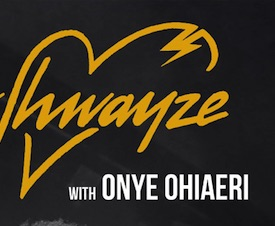
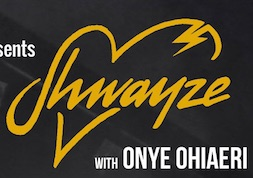
updated welcome text and shwayze image

diff --git a/index.html b/index.html
@@ -94,7 +94,7 @@
 	    			<div class="summer-fastival">
 	    				<div class="col-md-12">
 		    				<h2>Welcome to BF Productions!</h2>
-		    				<p>BF Productions, also known as Brent Freed Productions, brings unforgettable concert experiences to college campuses near UC Berkeley, where our group originated. From rap to rock and roll, and from theaters to churches, BF Productions works to provide live entertainment for students and Bay Area residents to enjoy. Stay tuned for exciting shows to be announced soon!</p>
+		    				<p>BF Productions, also known as Brent Freed Productions is based at UC Berkeley, and brings unforgettable concert experiences to college campuses. From rap to rock and roll, and from theaters to churches, BF Productions works to provide live entertainment for students and Bay Area residents to enjoy. Stay tuned for exciting shows to be announced soon!</p>
 		    			</div>
 		    		</div>
     			</div>  
@@ -167,9 +167,7 @@
                         <div class="col-sm-6 col-md-4">
                             <div class="twitter-updates">
                                  <h3>BF PRODUCTIONS</h3>
-                                <p>We hope you find everything you're looking for and if you have any questions, please feel free to reach out to us via the "Contact Us" page.<br>
-
-                                <p><strong>Wanna get involved?</strong>  We're always looking for amazing talent so if you're interested, please reach out to <a href="contact-us.html">us</a>!</p>
+                                <p>We hope you find everything you're looking for and if you have any questions, please feel free to reach out to us via the "Contact Us" page.</p>
                             </div>                                              
                         </div>
                         <div class="col-sm-6 col-md-3 col-md-offset-1">
@@ -190,10 +188,8 @@
                         </div>
                         <div class="col-sm-12 col-md-4">
                             <div class="news-letter">
-                                <h3><i class="fa fa-envelope"></i> NEWSLETTER</h3>
-                                <p>Sign up for our newsletter to receive updates on events and special offers!</p>
-                                <input type="email" name="email"  value="">
-                                <a href="" class="btn btn-primary pull-right">Submit</a>
+                                <h3></i>Want to get Involved?</h3>
+                                <p>We're always looking for amazing talent so if you're interested, please reach out to <a href="contact-us.html">us</a>!</p>
                             </div>                          
                         </div>
                     </div>

diff --git a/contact-us.html b/contact-us.html
@@ -104,13 +104,13 @@
 	    					<h2 class="heading">Follow us on Social Media</h2>
 							<ul>
 								<li>
-									<a href="#"><i class="fa fa-facebook"></i></a>
+									<a href="https://www.facebook.com/brentfreedproductions?ref=br_tf"><i class="fa fa-facebook"></i></a>
 								</li>
 								<li>
-									<a href="#"><i class="fa fa-twitter"></i></a>
+									<a href="https://twitter.com/brentfreed"><i class="fa fa-twitter"></i></a>
 								</li>
 								<li>
-									<a href="#"><i class="fa fa-instagram"></i></a>
+									<a href="https://instagram.com/bfproductions_/"><i class="fa fa-instagram"></i></a>
 								</li>
 							</ul>
 	    				</div>
@@ -128,9 +128,7 @@
                         <div class="col-sm-6 col-md-4">
                             <div class="twitter-updates">
                                  <h3>BF PRODUCTIONS</h3>
-                                <p>We hope you find everything you're looking for and if you have any questions, please feel free to reach out to us via the "Contact Us" page.<br>
-
-                                <p><strong>Wanna get involved?</strong>  We're always looking for amazing talent so if you're interested, please reach out to <a href="contact-us.html">us</a>!</p>
+                                <p>We hope you find everything you're looking for and if you have any questions, please feel free to reach out to us via the "Contact Us" page.</p>
                             </div>                                              
                         </div>
                         <div class="col-sm-6 col-md-3 col-md-offset-1">
@@ -151,10 +149,8 @@
                         </div>
                         <div class="col-sm-12 col-md-4">
                             <div class="news-letter">
-                                <h3><i class="fa fa-envelope"></i> NEWSLETTER</h3>
-                                <p>Sign up for our newsletter to receive updates on events and special offers!</p>
-                                <input type="email" name="email"  value="">
-                                <a href="" class="btn btn-primary pull-right">Submit</a>
+                                <h3></i>Want to get Involved?</h3>
+                                <p>We're always looking for amazing talent so if you're interested, please reach out to <a href="contact-us.html">us</a>!</p>
                             </div>                          
                         </div>
                     </div>

diff --git a/about-us.html b/about-us.html
@@ -113,9 +113,7 @@
                         <div class="col-sm-6 col-md-4">
                             <div class="twitter-updates">
                                  <h3>BF PRODUCTIONS</h3>
-                                <p>We hope you find everything you're looking for and if you have any questions, please feel free to reach out to us via the "Contact Us" page.<br>
-
-                                <p><strong>Wanna get involved?</strong>  We're always looking for amazing talent so if you're interested, please reach out to <a href="contact-us.html">us</a>!</p>
+                                <p>We hope you find everything you're looking for and if you have any questions, please feel free to reach out to us via the "Contact Us" page.</p>
                             </div>                                              
                         </div>
                         <div class="col-sm-6 col-md-3 col-md-offset-1">
@@ -136,10 +134,8 @@
                         </div>
                         <div class="col-sm-12 col-md-4">
                             <div class="news-letter">
-                                <h3><i class="fa fa-envelope"></i> NEWSLETTER</h3>
-                                <p>Sign up for our newsletter to receive updates on events and special offers!</p>
-                                <input type="email" name="email"  value="">
-                                <a href="" class="btn btn-primary pull-right">Submit</a>
+                                <h3></i>Want to get Involved?</h3>
+                                <p>We're always looking for amazing talent so if you're interested, please reach out to <a href="contact-us.html">us</a>!</p>
                             </div>                          
                         </div>
                     </div>

diff --git a/past-events.html b/past-events.html
@@ -138,9 +138,7 @@
                         <div class="col-sm-6 col-md-4">
                             <div class="twitter-updates">
                                  <h3>BF PRODUCTIONS</h3>
-                                <p>We hope you find everything you're looking for and if you have any questions, please feel free to reach out to us via the "Contact Us" page.<br>
-
-                                <p><strong>Wanna get involved?</strong>  We're always looking for amazing talent so if you're interested, please reach out to <a href="contact-us.html">us</a>!</p>
+                                <p>We hope you find everything you're looking for and if you have any questions, please feel free to reach out to us via the "Contact Us" page.</p>
                             </div>                                              
                         </div>
                         <div class="col-sm-6 col-md-3 col-md-offset-1">
@@ -161,10 +159,8 @@
                         </div>
                         <div class="col-sm-12 col-md-4">
                             <div class="news-letter">
-                                <h3><i class="fa fa-envelope"></i> NEWSLETTER</h3>
-                                <p>Sign up for our newsletter to receive updates on events and special offers!</p>
-                                <input type="email" name="email"  value="">
-                                <a href="" class="btn btn-primary pull-right">Submit</a>
+                                <h3></i>Want to get Involved?</h3>
+                                <p>We're always looking for amazing talent so if you're interested, please reach out to <a href="contact-us.html">us</a>!</p>
                             </div>                          
                         </div>
                     </div>

diff --git a/upcoming-events.html b/upcoming-events.html
@@ -111,9 +111,7 @@
                         <div class="col-sm-6 col-md-4">
                             <div class="twitter-updates">
                                  <h3>BF PRODUCTIONS</h3>
-                                <p>We hope you find everything you're looking for and if you have any questions, please feel free to reach out to us via the "Contact Us" page.<br>
-
-                                <p><strong>Wanna get involved?</strong>  We're always looking for amazing talent so if you're interested, please reach out to <a href="contact-us.html">us</a>!</p>
+                                <p>We hope you find everything you're looking for and if you have any questions, please feel free to reach out to us via the "Contact Us" page.</p>
                             </div>                                              
                         </div>
                         <div class="col-sm-6 col-md-3 col-md-offset-1">
@@ -134,10 +132,8 @@
                         </div>
                         <div class="col-sm-12 col-md-4">
                             <div class="news-letter">
-                                <h3><i class="fa fa-envelope"></i> NEWSLETTER</h3>
-                                <p>Sign up for our newsletter to receive updates on events and special offers!</p>
-                                <input type="email" name="email"  value="">
-                                <a href="" class="btn btn-primary pull-right">Submit</a>
+                                <h3></i>Want to get Involved?</h3>
+                                <p>We're always looking for amazing talent so if you're interested, please reach out to <a href="contact-us.html">us</a>!</p>
                             </div>                          
                         </div>
                     </div>
